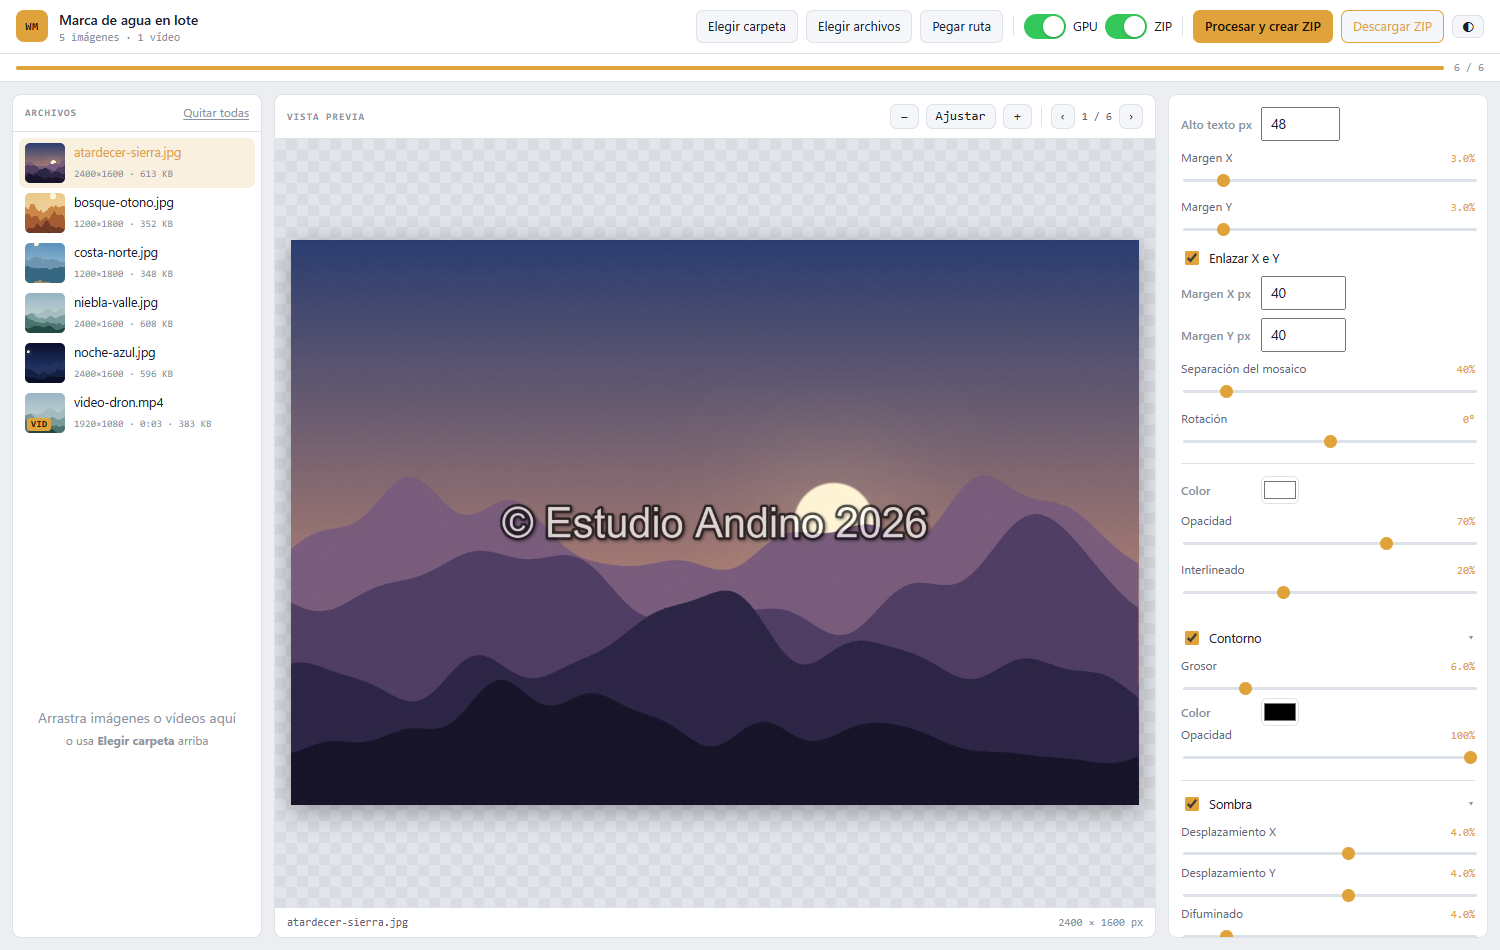
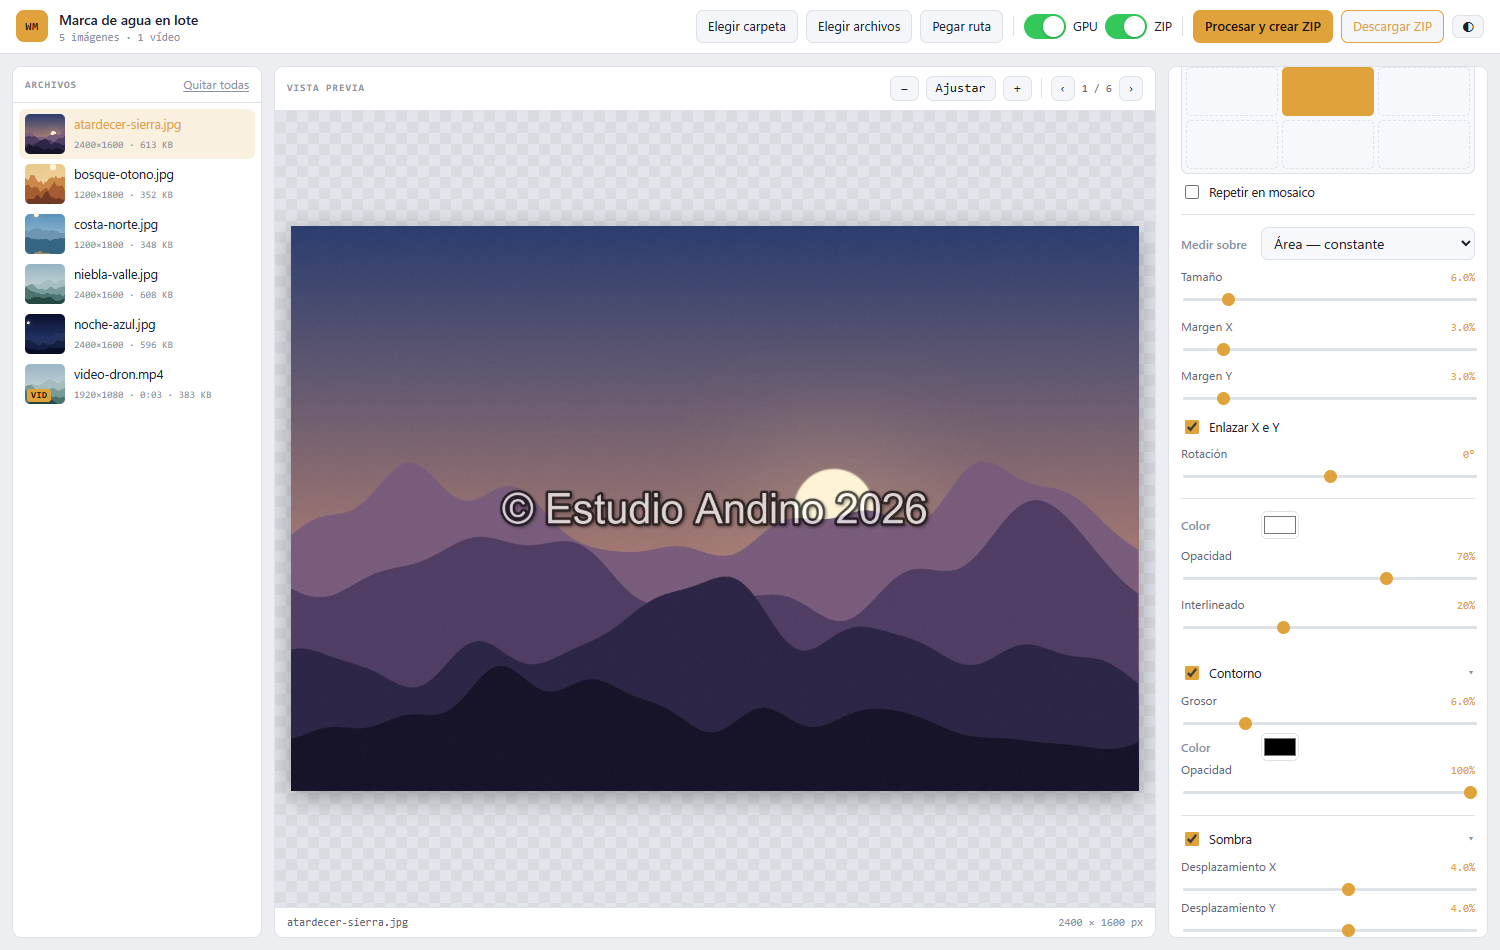
Corrige elementos ocultos, vista previa vertical y campos numéricos
- Añade la regla [hidden]: las reglas display de los componentes anulaban
  el atributo y se veían paneles y controles que debían estar ocultos.
- Ajusta las imágenes verticales al marco de la vista previa en vez de
  recortarlas.
- Da a los campos numéricos el estilo de los demás, para que se lean en
  tema oscuro.
- Actualiza las capturas del README y añade una con imagen vertical.

diff --git a/static/style.css b/static/style.css
@@ -21,6 +21,8 @@
 }
 
 *{box-sizing:border-box}
+/* las reglas display de cada componente no deben anular el atributo hidden */
+[hidden]{display:none!important}
 html,body{height:100%}
 body{
   margin:0; background:var(--bg); color:var(--ink);
@@ -96,12 +98,12 @@ button,input,select,textarea{font:inherit; color:inherit}
 .link:hover{color:var(--ink)}
 .link.danger:hover{color:var(--danger)}
 
-input[type=text],textarea,select{
+input[type=text],input[type=number],textarea,select{
   width:100%; background:var(--field); border:1px solid var(--line);
   border-radius:7px; padding:7px 9px; outline:none; resize:vertical;
 }
 select{cursor:pointer}
-input[type=text]:focus,textarea:focus,select:focus{border-color:var(--amber)}
+input[type=text]:focus,input[type=number]:focus,textarea:focus,select:focus{border-color:var(--amber)}
 input[type=color]{
   width:38px; height:28px; padding:0; border:1px solid var(--line);
   border-radius:6px; background:none; cursor:pointer; flex:none;
@@ -156,7 +158,12 @@ input[type=color]{
 }
 /* modo ajustar: la imagen nunca sale del marco */
 .stage.fit{overflow:hidden}
-.stage.fit .canvas{width:100%; height:100%; min-height:0}
+.stage.fit .canvas{
+  position:absolute; inset:16px; margin:0;
+  /* filas y columnas de tamaño definido: sin ellas, el max-height:100% de la
+     imagen no tiene referencia y las verticales se salen del marco */
+  grid-template:minmax(0,1fr)/minmax(0,1fr);
+}
 .stage.fit #preview{max-width:100%; max-height:100%; width:auto; height:auto}
 .stage-empty{color:var(--ink-faint); font-size:13px}
 .stage-foot{

diff --git a/README.md b/README.md
@@ -23,10 +23,9 @@ archivos sueltos.
 |---|---|
 | ![Marca repetida en mosaico y girada sobre una imagen nocturna](docs/screenshots/mosaico-oscuro.png) | ![Fotograma de un vídeo con la marca aplicada y las opciones de vídeo abiertas](docs/screenshots/video.png) |
 
-Lote de seis archivos procesado, con contorno y sombra activos y el ZIP listo
-para descargar:
-
-![Lote procesado con la barra de progreso en 6 de 6 y el botón Descargar ZIP](docs/screenshots/lote-procesado.png)
+| Imagen vertical ajustada al marco | Lote procesado, con el ZIP listo para descargar |
+|---|---|
+| ![Imagen vertical completa en la vista previa, con contorno y sombra en la marca](docs/screenshots/vertical.png) | ![Lote de seis archivos procesado, con el botón Descargar ZIP en la barra superior](docs/screenshots/lote-procesado.png) |
 
 *Las imágenes de las capturas son paisajes generados por ordenador.*
 
